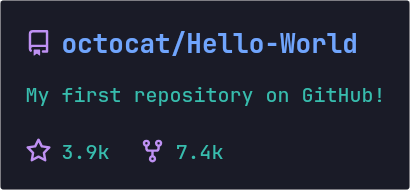
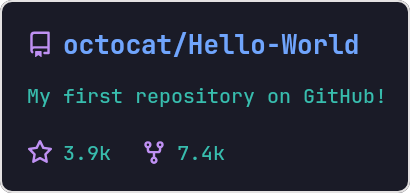
fix(images): 统一独立图片边框并补全接口预览
统一四种 GitHub 独立二维图片的圆角边框，保留已有圆角配置并更新默认配置。

在 README 展示所有图片接口的实际预览，同步接口说明和示例图片。

diff --git a/core/src/main/kotlin/platform/GithubCardRender.kt b/core/src/main/kotlin/platform/GithubCardRender.kt
@@ -112,7 +112,6 @@ object GithubCardRender {
     private const val DEFAULT_LANG_COLOR = "#858585"
 
     private data class CardMetrics(val layout: Heatmap2dRender.Layout) {
-        val hairline = max(0.5f, layout.textSize / 40f)
         val titleGap = layout.textSize
         val rowGap = layout.textSize * 0.25f
         val inlineGap = layout.barPadding
@@ -185,14 +184,15 @@ object GithubCardRender {
         )
         val cardWidth = contentWidth + layout.margin * 2
         val rankImage = if (options.hideRank) null else rankBadge(stats.rank, theme, layout, options.rankIcon, metrics.rankSize)
+        val frame = Shape.RoundedRect(layout.bgRadii)
 
         return render {
             column(
                 Modifier
                     .width(cardWidth)
-                    .clip(Shape.RoundedRect(layout.bgRadii))
+                    .clip(frame)
                     .background(theme.bgColor)
-                    .border(metrics.hairline, theme.bolderColor)
+                    .border(2f, theme.bolderColor, shape = frame)
                     .padding(layout.margin)
             ) {
                 text(title, modifier = Modifier.padding(bottom = metrics.titleGap), textModifier = titleTextStyle(layout, theme))
@@ -283,14 +283,15 @@ object GithubCardRender {
         val width = when (finalLayout) {
             else -> contentWidth
         }
+        val frame = Shape.RoundedRect(layoutConfig.bgRadii)
 
         return render {
             column(
                 Modifier
                     .width(width)
-                    .clip(Shape.RoundedRect(layoutConfig.bgRadii))
+                    .clip(frame)
                     .background(theme.bgColor)
-                    .border(metrics.hairline, theme.bolderColor)
+                    .border(2f, theme.bolderColor, shape = frame)
                     .padding(layoutConfig.margin)
             ) {
                 text(title, modifier = Modifier.padding(bottom = metrics.titleGap), textModifier = titleTextStyle(layoutConfig, theme))
@@ -492,14 +493,15 @@ object GithubCardRender {
         )
         val descWidth = descLines.maxOfOrNull { estimateBodyTextWidth(layout, it, layout.textSize) } ?: 0f
         val cardWidth = maxOf(titleRowWidth, descWidth, metaWidth) + layout.margin * 2
+        val frame = Shape.RoundedRect(layout.bgRadii)
 
         return render {
             column(
                 Modifier
                     .width(cardWidth)
-                    .clip(Shape.RoundedRect(layout.bgRadii))
+                    .clip(frame)
                     .background(theme.bgColor)
-                    .border(metrics.hairline, theme.bolderColor)
+                    .border(2f, theme.bolderColor, shape = frame)
                     .padding(layout.margin)
             ) {
                 row(verticalAlignment = VerticalAlignment.Center) {

diff --git a/core/src/main/kotlin/feature/Heatmap2dRender.kt b/core/src/main/kotlin/feature/Heatmap2dRender.kt
@@ -20,8 +20,8 @@ object Heatmap2dRender {
         @SerialName("lang_size") val langSize: Float = 20F,
         @SerialName("text_font") val textFontFile: String = "font/JetBrainsMono-Medium.ttf",
         @SerialName("text_size") val textSize: Float = 20F,
-        @SerialName("bg_radii") val bgRadii: Float = 4.5F,
-        @SerialName("stroke_radii") val strokeRadii: Float = 4.5F,
+        @SerialName("bg_radii") val bgRadii: Float = 12F,
+        @SerialName("stroke_radii") val strokeRadii: Float = 12F,
         val margin: Float = 25F,
         val spacing: Float = 30F,
         @SerialName("bar_padding") val barPadding: Float = 10F,
@@ -166,13 +166,14 @@ object Heatmap2dRender {
             textColor = theme.titleColor,
             fontFamily = layout.titleFontFamily
         )
+        val frame = Shape.RoundedRect(layout.bgRadii)
 
         return render {
             column(
                 Modifier
-                    .clip(Shape.RoundedRect(layout.bgRadii))
+                    .clip(frame)
                     .background(theme.bgColor)
-                    .border(.5f, theme.bolderColor)
+                    .border(2f, theme.bolderColor, shape = frame)
                     .padding(layout.margin)
             ) {
                 text(title, textModifier = titleTextStyle)

diff --git a/README.md b/README.md
@@ -13,11 +13,29 @@
 
 ## 效果预览
 
-以下图片均由实际 HTTP 接口生成，不需要部署服务就能查看。各独立接口的示例见[接口文档](docs/http-api.md)。
+以下图片均由实际 HTTP 接口生成，不需要部署服务即可查看。点击接口名称查看参数和请求示例；点击图片可查看原图。
 
-| GitHub 综合统计 | WakaTime 综合统计 |
+| [GitHub 综合统计](docs/http-api.md#github-综合统计图) | [WakaTime 综合统计](docs/http-api.md#wakatime-综合统计图) |
 | --- | --- |
 | [![GitHub 综合统计](docs/examples/github-dashboard.png)](docs/examples/github-dashboard.png) | [![WakaTime 综合统计](docs/examples/wakatime-stats.png)](docs/examples/wakatime-stats.png) |
+
+### [GitHub 2D 贡献热力图](docs/http-api.md#github-2d-贡献热力图)
+
+[![GitHub 2D 贡献热力图](docs/examples/github-contribution.png)](docs/examples/github-contribution.png)
+
+### [GitHub 3D 贡献图](docs/http-api.md#github-3d-贡献图)
+
+[![GitHub 3D 贡献图](docs/examples/github-contribution3d.png)](docs/examples/github-contribution3d.png)
+
+| [GitHub 评级统计卡](docs/http-api.md#github-评级统计卡) | [GitHub 语言卡](docs/http-api.md#github-语言卡) |
+| --- | --- |
+| [![GitHub 评级统计卡](docs/examples/github-stats.png)](docs/examples/github-stats.png) | [![GitHub 语言卡](docs/examples/github-top-langs.png)](docs/examples/github-top-langs.png) |
+
+### [GitHub 仓库卡](docs/http-api.md#github-仓库卡)
+
+[![GitHub 仓库卡](docs/examples/github-repo.png)](docs/examples/github-repo.png)
+
+主题列表接口不返回图片：[GitHub 主题 JSON](docs/examples/github-themes.json) · [WakaTime 主题 JSON](docs/examples/wakatime-themes.json)。
 
 ## 运行前准备
 

diff --git a/docs/http-api.md b/docs/http-api.md
@@ -34,6 +34,8 @@ Jar 默认端口为 `2345`；仓库 Docker Compose 默认映射宿主机 `80`，
 | 3D 主题 | 仅 `/github/contribution3d/{username}` 使用 `themes3d`；省略或未知名称使用 `rainbow`。两个主题列表接口均**不返回 3D 主题**。 |
 | 未支持的参数 | 不参与该接口处理，例如为综合图传入独立卡片的选项不会改变综合图。 |
 
+GitHub 独立 2D 贡献图、评级卡、语言卡和仓库卡使用 2 像素外框；背景与边框的圆角均取服务配置 `layout2d.bg_radii`，新默认值为 12 像素。已有配置中的值不会自动覆盖，如需相同圆角须自行调整。综合图与 3D 图不使用此配置控制外框。
+
 ## 接口目录
 
 | 方法 | 路径 | 成功响应 | 示例 |
